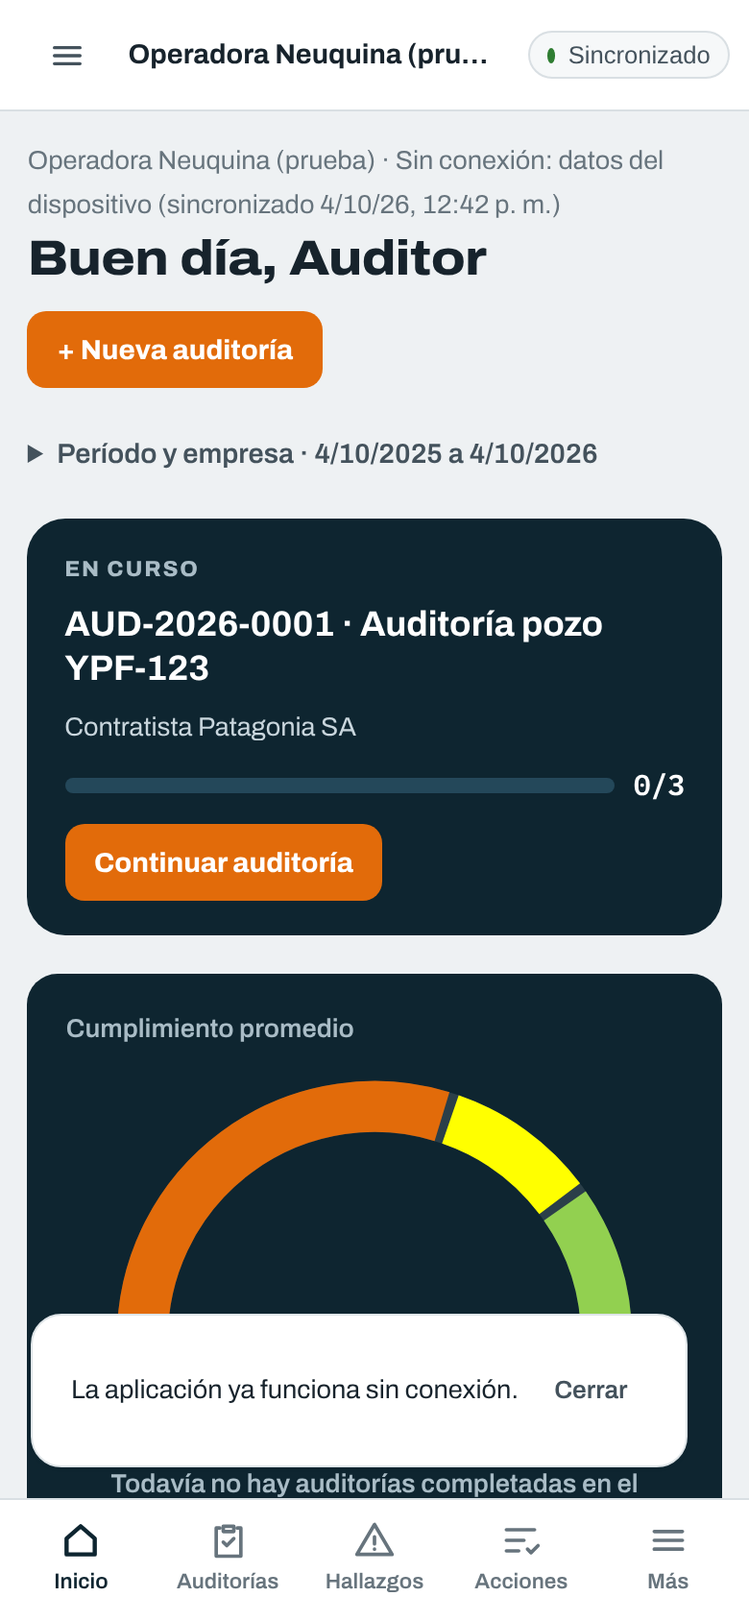
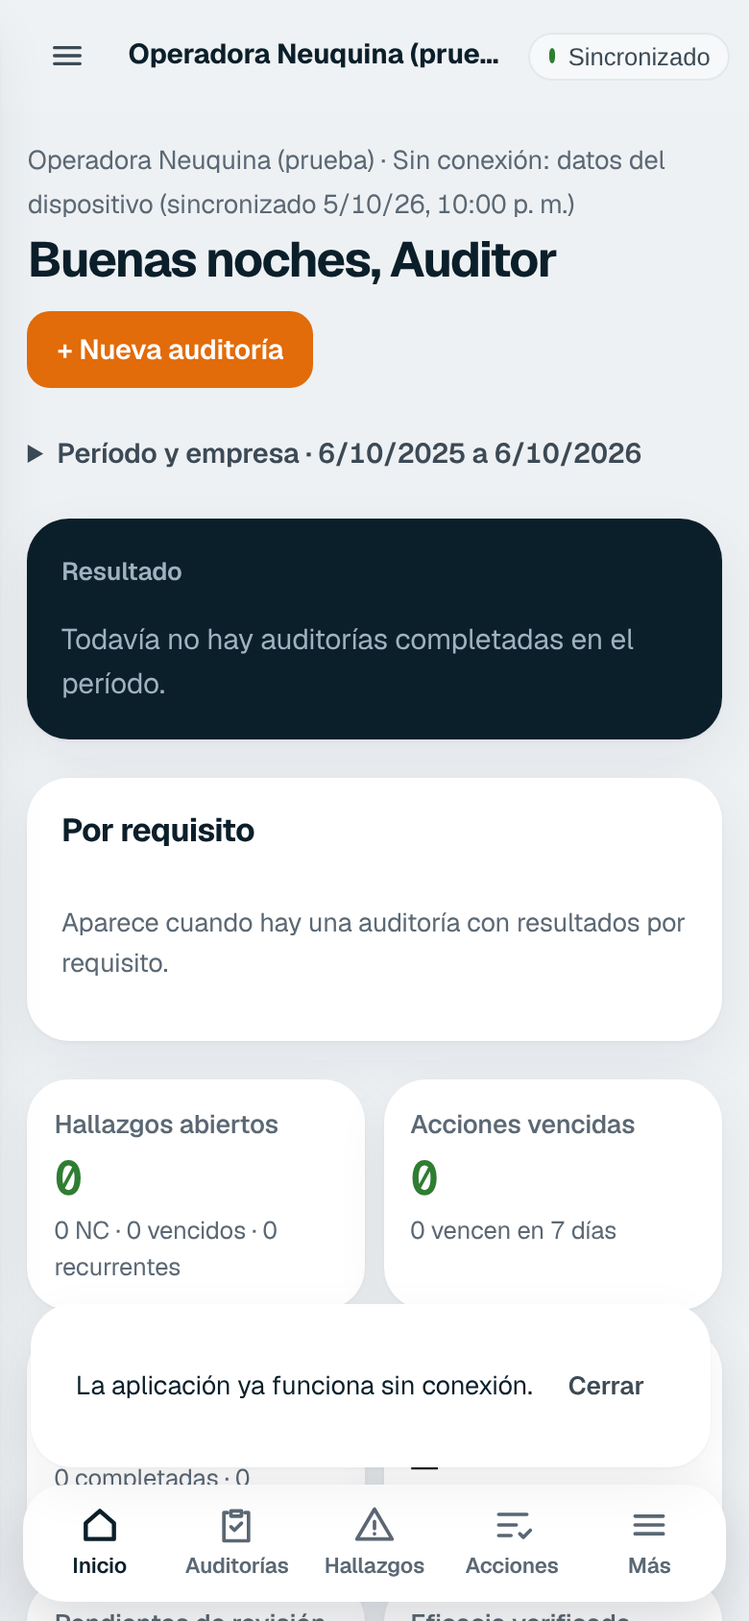
Diseño versión 2: tarjetas flotantes, menú blanco, Geist y panel por bloques
- Tipografía Geist / Geist Mono; tarjetas sin borde con sombra suave; menú lateral
  blanco flotante y barra inferior flotante en el celular.
- Panel: anillo con el último resultado (o el parcial en curso), barras por requisito
  con los colores de la planilla, indicadores, hallazgos abiertos con Asignar y
  Siguiente paso.
- Todas las suites en verde.

Claude-Session: https://claude.ai/code/session_01S9HHxuReGCk5wRk5QeqLob

diff --git a/src/modules/dashboard/DashboardPage.tsx b/src/modules/dashboard/DashboardPage.tsx
@@ -6,7 +6,6 @@ import { useOrgRows } from '../../db/hooks';
 import { useAuth } from '../auth/AuthProvider';
 import { useSyncState } from '../../sync/scheduler';
 import { Badge, Card, Empty, Input, Select, Stat, fmtDate, fmtDateTime, fmtNum } from '../../components/ui';
-import { Gauge } from '../../components/Gauge';
 import { useProfiles } from '../../db/hooks';
 import { loadSummary, type SummaryResult } from '../reports/summary';
 import { LABELS, type Action, type Audit, type Company, type Finding, type TemplateCategory, type TemplateVersion } from '../../types';
@@ -30,6 +29,19 @@ function Bars({ data, max, fmt = (v: number) => String(v), color }: { data: { la
   );
 }
 const BAND_ORDER = ['Muy Bueno', 'Bueno', 'Regular', 'Crítico'];
+
+/** Anillo de progreso con el valor en el centro (color de la banda). */
+function Ring({ value, max, color, text, sub }: { value: number; max: number; color: string; text: string; sub: string }) {
+  const r = 70, c = 2 * Math.PI * r, f = Math.max(0, Math.min(1, value / (max || 1)));
+  return (
+    <svg className="ring" viewBox="0 0 168 168" role="img" aria-label={`${text} ${sub}`}>
+      <circle cx="84" cy="84" r={r} fill="none" stroke="rgba(255,255,255,.12)" strokeWidth="16" />
+      <circle cx="84" cy="84" r={r} fill="none" stroke={color} strokeWidth="16" strokeLinecap="round" strokeDasharray={`${(f * c).toFixed(1)} ${c.toFixed(1)}`} transform="rotate(-90 84 84)" />
+      <text x="84" y="90" textAnchor="middle" className="ring-val">{text}</text>
+      <text x="84" y="114" textAnchor="middle" className="ring-sub">{sub}</text>
+    </svg>
+  );
+}
 
 /** Distribución de calificaciones como barra apilada con los colores de la planilla. */
 function BandStrip({ bands, compact }: { bands: Record<string, number>; compact?: boolean }) {
@@ -92,7 +104,7 @@ export function DashboardPage() {
     const answered = (await db.hse_audit_responses.where('audit_id').equals(a.id).toArray()).filter(r => !r.deleted_at && (r.answer || r.text_value || r.numeric_value !== null || r.rating !== null)).length;
     // resultado parcial con las reglas de la versión (el oficial lo calcula el servidor al completar)
     const version = await db.hse_template_versions.get(a.template_version_id);
-    let partial: { value: number | null; band: string | null; situ: boolean; cfg: unknown } | null = null;
+    let partial: { value: number | null; band: string | null; situ: boolean; cfg: unknown; sections: { title: string; score: number | null }[] } | null = null;
     if (version) {
       const secs = await db.hse_template_sections.where('version_id').equals(a.template_version_id).toArray();
       const its = await db.hse_template_items.where('version_id').equals(a.template_version_id).toArray();
@@ -100,7 +112,8 @@ export function DashboardPage() {
       const answers = Object.fromEntries(resp.filter(r => r.answer).map(r => [r.item_id, r.answer as string]));
       const situ = version.scoring_method === 'situacion_promedio_secciones';
       const res = evaluate(version, secs.filter(x => !x.deleted_at), its.filter(x => !x.deleted_at), answers);
-      partial = { value: situ ? res.final ?? null : res.compliance_pct ?? null, band: situ ? res.band ?? null : null, situ, cfg: version.scoring_config };
+      partial = { value: situ ? res.final ?? null : res.compliance_pct ?? null, band: situ ? res.band ?? null : null, situ, cfg: version.scoring_config,
+        sections: res.sections.map(x => ({ title: String((secs.find(z => z.id === x.section_id)?.title ?? '')).trim(), score: x.score === null || x.score === undefined ? null : Number(x.score) })) };
     }
     return { audit: a, total, answered: Math.min(answered, total), partial };
   }, [orgId, userId]);
@@ -119,18 +132,6 @@ export function DashboardPage() {
   const firstName = (profileName ?? '').split(' ')[0];
   const hour = new Date().getHours();
   const hello = hour < 13 ? 'Buen día' : hour < 20 ? 'Buenas tardes' : 'Buenas noches';
-  // indicador: promedio de los resultados oficiales con bandas (escala de la metodología) o cumplimiento %
-  const situ = latest.filter(a => vById.get(a.template_version_id)?.scoring_method === 'situacion_promedio_secciones' && a.score !== null);
-  // sin auditorías completadas: el indicador muestra el resultado parcial de la auditoría en curso
-  const usePartial = !situ.length && S?.results.avg_compliance == null && !!inProgress?.partial && inProgress.partial.value !== null;
-  const cfg0 = situ.length ? vById.get(situ[0].template_version_id)?.scoring_config : usePartial && inProgress!.partial!.situ ? inProgress!.partial!.cfg : null;
-  const cfg = cfg0 && isSituacionConfig(cfg0) ? cfg0 : null;
-  const gaugeMax = cfg ? cfg.scale_max : 100;
-  const gaugeVal = usePartial ? inProgress!.partial!.value : cfg ? (situ.length ? situ.reduce((t, a) => t + Number(a.score), 0) / situ.length : null) : (S?.results.avg_compliance ?? null);
-  const gaugeBand = cfg ? bandFor(gaugeVal, cfg.bands) : null;
-  // sin bandas (lista ponderada): los mismos umbrales de color que el indicador de cumplimiento (60 % / 80 %)
-  const segments = cfg ? [...cfg.bands].sort((a, b) => (a.min ?? 0) - (b.min ?? 0)).map(b => ({ from: b.min ?? 0, to: b.max ?? cfg.scale_max, color: bandStyle(b.label)?.bg ?? '#7d8b92' }))
-    : [{ from: 0, to: 60, color: '#E26B0A' }, { from: 60, to: 80, color: '#FFFF00' }, { from: 80, to: 100, color: '#92D050' }];
   const today = new Date().toISOString().slice(0, 10);
   const upcoming = audits.filter(a => !a.deleted_at && a.status === 'planificada' && (!company || a.company_id === company))
     .sort((a, b) => (a.scheduled_date ?? '9999').localeCompare(b.scheduled_date ?? '9999')).slice(0, 5);
@@ -138,6 +139,23 @@ export function DashboardPage() {
     .sort((a, b) => a.due_date.localeCompare(b.due_date)).slice(0, 5);
   const findingById = new Map(findings.map(f => [f.id, f]));
   const heat = heatmap(audits, vById, company);
+  // tarjeta principal: último resultado oficial o, si no hay, la auditoría en curso (parcial)
+  const lastDone = latest[0];
+  const subj = lastDone ? (() => {
+    const v = vById.get(lastDone.template_version_id); const sc = v?.scoring_config; const sit = v?.scoring_method === 'situacion_promedio_secciones';
+    return { audit: lastDone, partial: false, situ: sit, value: sit ? Number(lastDone.score) : Number(lastDone.compliance_pct), band: lastDone.result_band,
+      max: sit && sc && isSituacionConfig(sc) ? sc.scale_max : 100, bands: sc && isSituacionConfig(sc) ? sc.bands : undefined,
+      sections: ((lastDone.section_results as { title: string; score: number | null }[] | null) ?? []).map(x => ({ title: String(x.title).trim(), score: x.score === null ? null : Number(x.score) })) };
+  })() : inProgress?.partial && inProgress.partial.value !== null ? (() => {
+    const sc = inProgress.partial.cfg;
+    return { audit: inProgress.audit, partial: true, situ: inProgress.partial.situ, value: inProgress.partial.value, band: inProgress.partial.band,
+      max: inProgress.partial.situ && isSituacionConfig(sc) ? sc.scale_max : 100, bands: isSituacionConfig(sc) ? sc.bands : undefined, sections: inProgress.partial.sections };
+  })() : null;
+  const subjSections = subj ? subj.sections.filter(x => x.score !== null) : [];
+  const weakest = subjSections.length ? [...subjSections].sort((a, b) => Number(a.score) - Number(b.score))[0] : null;
+  const openFindings = findings.filter(f => !f.deleted_at && (f.status === 'abierto' || f.status === 'en_tratamiento'))
+    .sort((a, b) => (a.finding_type.startsWith('n') ? 0 : 1) - (b.finding_type.startsWith('n') ? 0 : 1) || (b.detected_at ?? '').localeCompare(a.detected_at ?? ''));
+  const ftLabel = (t: string) => t === 'observacion' ? 'OBS' : t === 'oportunidad_mejora' ? 'OPM' : 'NC';
 
   return (
     <div className="stack-lg">
@@ -157,18 +175,6 @@ export function DashboardPage() {
         </div>
       </details>
       {error ? <div className="alert alert-bad">{error}</div> : null}
-      {inProgress ? (
-        <Link to={`/auditorias/${inProgress.audit.id}`} className="continue-card">
-          <span className="continue-tag">EN CURSO</span>
-          <strong>{inProgress.audit.code ? `${inProgress.audit.code} · ` : ''}{inProgress.audit.title}</strong>
-          <span className="small">{inProgress.audit.company_id ? cName.get(inProgress.audit.company_id) : ''}</span>
-          <span className="continue-progress"><span><span style={{ width: `${inProgress.total ? (100 * inProgress.answered) / inProgress.total : 0}%` }} /></span><span className="num-font">{inProgress.answered}/{inProgress.total}</span></span>
-          {inProgress.partial && inProgress.partial.value !== null ? (
-            <span className="continue-partial">Resultado parcial <strong className="num-font">{inProgress.partial.situ ? fmtNum(inProgress.partial.value) : `${fmtNum(inProgress.partial.value, 1)} %`}</strong>{inProgress.partial.band ? <BandChip label={inProgress.partial.band} /> : null}
-              {inProgress.answered >= inProgress.total ? <span className="small">· todo respondido: falta tocar "Completar"</span> : null}</span>) : null}
-          <span className="btn btn-accent">{inProgress.answered >= inProgress.total ? 'Revisar y completar' : 'Continuar auditoría'}</span>
-        </Link>
-      ) : null}
       {anyAudit === false ? <Empty>
           <div className="stack" style={{ alignItems: 'center' }}>
             <strong>Todavía no hay auditorías en esta organización.</strong>
@@ -176,27 +182,86 @@ export function DashboardPage() {
             {can(role, 'admin') ? <DemoButton /> : null}
           </div>
         </Empty> : !S ? null : <>
-        <section className="dash-top">
-          <div className="gauge-card">
-            <span className="small">{usePartial ? `Resultado parcial · ${inProgress!.audit.code ?? 'en curso'}` : cfg ? 'Resultado promedio' : 'Cumplimiento promedio'}</span>
-            <Gauge value={gaugeVal} max={gaugeMax} segments={segments} label={`Indicador: ${gaugeVal === null ? 'sin datos' : fmtNum(gaugeVal)}${gaugeBand ? `, ${gaugeBand}` : ''}`} />
-            <div className="gauge-value"><span className="num-font">{gaugeVal === null ? '—' : cfg ? fmtNum(gaugeVal) : `${fmtNum(gaugeVal, 1)} %`}</span>{gaugeBand ? <BandChip label={gaugeBand} /> : null}</div>
-            <span className="small gauge-note">{usePartial ? 'Auditoría en curso: el resultado oficial se calcula al tocar "Completar"' : gaugeVal === null ? 'Todavía no hay auditorías completadas en el período' : cfg ? `Últimas ${situ.length} auditorías con calificación · escala 0 a ${fmtNum(cfg.scale_max, 0)}` : 'Resultados oficiales del período'}</span>
-            <BandStrip bands={S.results.bands} compact />
+        <section className="bento">
+          <div className="tile tile-dark hero-tile">
+            <div className="row between gap"><span className="tile-kicker">{subj ? (subj.partial ? 'En curso · resultado parcial' : 'Último resultado') : 'Resultado'}</span>
+              {subj?.audit.code ? <span className="pill pill-glass">{subj.audit.code}</span> : null}</div>
+            {subj ? (<>
+              <div className="hero-body">
+                <Ring value={subj.value} max={subj.max} color={bandStyle(subj.band)?.bg ?? '#92D050'} text={subj.situ ? fmtNum(subj.value) : `${fmtNum(subj.value, 0)}%`} sub={subj.situ ? `de ${fmtNum(subj.max, 0)}` : 'cumplimiento'} />
+                <div className="hero-info">
+                  {subj.band ? <BandChip label={subj.band} /> : null}
+                  <strong>{subj.audit.company_id ? cName.get(subj.audit.company_id) : subj.audit.title}</strong>
+                  <span>{subj.audit.title}<br />{fmtDate(subj.audit.scheduled_date ?? subj.audit.completed_at)}</span>
+                </div>
+              </div>
+              {subj.bands ? <div className="band-scale" aria-hidden>{[...subj.bands].sort((x, y) => (x.min ?? 0) - (y.min ?? 0)).map(b => <span key={b.label} style={{ flex: ((b.max ?? subj.max) - (b.min ?? 0)) || 1, background: bandStyle(b.label)?.bg }} />)}</div> : null}
+              {subj.partial ? <Link className="btn btn-accent" to={`/auditorias/${subj.audit.id}`}>{inProgress && inProgress.answered >= inProgress.total ? 'Revisar y completar' : 'Continuar auditoría'}</Link>
+                : <Link className="btn btn-glass" to={`/auditorias/${subj.audit.id}`}>Ver auditoría</Link>}
+            </>) : <p className="tile-muted">Todavía no hay auditorías completadas en el período.</p>}
           </div>
-          <div className="kpis">
-            <Stat label="Auditorías" value={S.audits.total} sub={`${(S.audits.by_status.completada ?? 0) + (S.audits.by_status.cerrada ?? 0)} completadas · ${S.audits.overdue_planned} atrasadas`} tone={S.audits.overdue_planned ? 'warn' : undefined} />
-            <Stat label="Cumplimiento promedio" value={S.results.avg_compliance === null ? '—' : `${fmtNum(S.results.avg_compliance, 1)} %`} sub="resultados oficiales" tone={S.results.avg_compliance === null ? undefined : S.results.avg_compliance >= 80 ? 'ok' : S.results.avg_compliance >= 60 ? 'warn' : 'bad'} />
-            <Stat label="Hallazgos abiertos" value={S.findings.open} sub={`${S.findings.overdue} vencidos · ${S.findings.recurrent} recurrentes`} tone={S.findings.overdue ? 'bad' : S.findings.open ? 'warn' : 'ok'} />
-            <Stat label="Acciones vencidas" value={S.actions.overdue} sub={`${S.actions.due_7_days} vencen en 7 días · ${S.actions.completed ? fmtNum((100 * S.actions.completed_on_time) / S.actions.completed, 0) : '—'} % en plazo`} tone={S.actions.overdue ? 'bad' : 'ok'} />
-            <Stat label="Pendientes de revisión" value={S.audits.pending_review} sub={`${S.audits.ready_to_close} listas para cerrar`} />
-            <Stat label="Eficacia verificada" value={`${S.findings.effective} / ${S.findings.effective + S.findings.not_effective}`} sub={`hallazgos eficaces / verificados · ${S.findings.pending_verification} por verificar`} tone={S.findings.not_effective ? 'warn' : undefined} />
+          <div className="tile req-tile">
+            <div className="row between wrap gap"><h2 className="tile-title">Por requisito</h2><span className="small muted">{subj ? `${subj.audit.code ?? ''} · colores de la planilla` : ''}</span></div>
+            {subjSections.length ? subjSections.map(x => {
+              const b = subj!.situ ? bandFor(x.score, subj!.bands) : null; const st = bandStyle(b);
+              return (
+                <div key={x.title} className="req-bar" title={b ?? undefined}>
+                  <span className="req-name">{x.title}</span>
+                  <span className="req-track"><span style={{ width: `${Math.max(2, (100 * Number(x.score)) / (subj!.max || 100))}%`, background: st?.bg ?? 'var(--primary)' }} /></span>
+                  <span className="num-font req-val">{subj!.situ ? fmtNum(x.score) : `${fmtNum(x.score, 0)}%`}</span>
+                </div>);
+            }) : <p className="muted small">Aparece cuando hay una auditoría con resultados por requisito.</p>}
+            {weakest && subjSections.length > 1 ? <p className="small muted" style={{ margin: '.4rem 0 0' }}>Punto más débil: <strong>{weakest.title}</strong>.</p> : null}
           </div>
+        </section>
+
+        <section className="kpis kpis-v2">
+          <Stat label="Hallazgos abiertos" value={S.findings.open} sub={`${openFindings.filter(f => !['observacion', 'oportunidad_mejora'].includes(f.finding_type)).length} NC · ${S.findings.overdue} vencidos · ${S.findings.recurrent} recurrentes`} tone={S.findings.overdue ? 'bad' : S.findings.open ? 'warn' : 'ok'} />
+          <Stat label="Acciones vencidas" value={S.actions.overdue} sub={`${S.actions.due_7_days} vencen en 7 días`} tone={S.actions.overdue ? 'bad' : 'ok'} />
+          <Stat label="Auditorías" value={S.audits.total} sub={`${(S.audits.by_status.completada ?? 0) + (S.audits.by_status.cerrada ?? 0)} completadas · ${S.audits.overdue_planned} atrasadas`} tone={S.audits.overdue_planned ? 'warn' : undefined} />
+          <Stat label="Cumplimiento promedio" value={S.results.avg_compliance === null ? '—' : `${fmtNum(S.results.avg_compliance, 1)} %`} sub="resultados oficiales" tone={S.results.avg_compliance === null ? undefined : S.results.avg_compliance >= 80 ? 'ok' : S.results.avg_compliance >= 60 ? 'warn' : 'bad'} />
+          <Stat label="Pendientes de revisión" value={S.audits.pending_review} sub={`${S.audits.ready_to_close} listas para cerrar`} />
+          <Stat label="Eficacia verificada" value={`${S.findings.effective} / ${S.findings.effective + S.findings.not_effective}`} sub={`${S.findings.pending_verification} por verificar`} tone={S.findings.not_effective ? 'warn' : undefined} />
+        </section>
+
+        <section className="bento">
+          <div className="tile feed-tile">
+            <div className="row between wrap gap"><h2 className="tile-title">Hallazgos abiertos</h2><Link className="small" to="/hallazgos" style={{ fontWeight: 600 }}>Ver los {openFindings.length}</Link></div>
+            {openFindings.length === 0 ? <p className="muted small">No hay hallazgos abiertos.</p> : (
+              <ul className="plain feed">{openFindings.slice(0, 5).map(f => (
+                <li key={f.id}><Link to={`/hallazgos/${f.id}`} className="feed-item">
+                  <span className={`pill pill-${ftLabel(f.finding_type).toLowerCase()}`}>{ftLabel(f.finding_type)}</span>
+                  <span className="grow"><strong>{f.title}</strong><span className="small muted">{f.code ?? ''}{f.company_id ? ` · ${cName.get(f.company_id) ?? ''}` : ''} · {f.responsible_user_id ? people.get(f.responsible_user_id) : 'sin responsable'}</span></span>
+                  <span className="feed-cta">{f.responsible_user_id ? 'Ver' : 'Asignar'}</span>
+                </Link></li>))}
+              </ul>)}
+          </div>
+          {inProgress ? (
+            <div className="tile steps-tile">
+              <h2 className="tile-title">Siguiente paso</h2>
+              <ol className="steps">
+                <li className={inProgress.answered >= inProgress.total ? 'now' : ''}><strong>{inProgress.answered >= inProgress.total ? `Completar ${inProgress.audit.code ?? 'la auditoría'}` : `Responder ${inProgress.total - inProgress.answered} requisitos`}</strong><span>{inProgress.answered}/{inProgress.total} respondidas{inProgress.answered >= inProgress.total ? ': falta confirmar el resultado oficial' : ''}.</span></li>
+                <li><strong>Reunión de cierre y firmas</strong><span>Acta con el referente de la empresa auditada.</span></li>
+                <li><strong>Enviar informe y pedir plan de acción</strong><span>{findings.filter(f => !f.deleted_at && f.audit_id === inProgress.audit.id).length} hallazgos para asignar.</span></li>
+              </ol>
+              <Link className="btn btn-accent" to={`/auditorias/${inProgress.audit.id}`}>{inProgress.answered >= inProgress.total ? 'Revisar y completar' : 'Continuar auditoría'}</Link>
+            </div>
+          ) : (
+            <Card title="Próximas auditorías" actions={<Link className="btn btn-ghost btn-sm" to="/auditorias">Ver todas</Link>}>
+              {upcoming.length === 0 ? <p className="muted small">No hay auditorías planificadas.</p> : (
+                <ul className="plain date-list">{upcoming.map(a => { const d = a.scheduled_date ? new Date(a.scheduled_date + 'T12:00:00') : null; const late = !!a.scheduled_date && a.scheduled_date < today; return (
+                  <li key={a.id}><Link to={`/auditorias/${a.id}`} className="date-item">
+                    <span className={`date-box ${late ? 'late' : ''}`}><strong className="num-font">{d ? String(d.getDate()).padStart(2, '0') : '—'}</strong><span>{d ? d.toLocaleDateString('es-AR', { month: 'short' }).replace('.', '').toUpperCase() : ''}</span></span>
+                    <span><strong>{a.title}</strong><span className="small muted">{a.company_id ? cName.get(a.company_id) : ''}{late ? ' · atrasada' : ''}</span></span>
+                  </Link></li>); })}
+                </ul>)}
+            </Card>
+          )}
         </section>
 
         <section className="dash-row">
           <Card title="Mapa de requisitos por empresa" className="dash-wide">
-            {!heat ? <p className="muted small">Aparece cuando hay auditorías completadas con calificación por requisito.</p> : (<>
+            {!heat ? <p className="muted small">Aparece cuando hay auditorías completadas de más de una empresa, para compararlas por requisito.</p> : (<>
               <div className="heat-wrap"><table className="heat">
                 <thead><tr><th>Empresa</th>{heat.cols.map(c => <th key={c} title={c}>{c}</th>)}<th>Final</th></tr></thead>
                 <tbody>{heat.rows.map(r => (

diff --git a/src/index.css b/src/index.css
@@ -458,3 +458,110 @@ table.perm-t td:first-child { text-align: left; font-weight: 600; }
 .cred-pass { font-size: 1.35rem; letter-spacing: .02em; user-select: all; }
 .sheet-opt { border: 1.5px solid var(--ok); background: var(--ok-soft); border-radius: 12px; padding: .7rem .8rem; }
 .continue-partial { display: flex; align-items: center; gap: .5rem; flex-wrap: wrap; color: #c9d6dd; } .continue-partial strong { color: #fff; font-size: 1.25rem; }
+
+/* =====================================================================
+   Versión 2 (2026-10-05): más aire, tarjetas flotantes sin borde,
+   menú blanco flotante, tipografía Geist y números en Geist Mono.
+   ===================================================================== */
+:root {
+  --bg: #eef1f4; --ink: #0b1f2a; --ink-2: #3c4a55; --muted: #5b6874; --line: #e3e8ec; --line-2: #cfd7de;
+  --primary: #0b1f2a; --primary-ink: #ffffff; --brand: #0b5cad; --brand-soft: #e8f1fb; --info: #0b5cad; --info-soft: #e8f1fb;
+  --font: "Geist Variable", "Geist", "Segoe UI", system-ui, -apple-system, sans-serif;
+  --num: "Geist Mono", ui-monospace, Menlo, Consolas, monospace;
+  --radius: 14px; --radius-lg: 22px;
+  --elev: 0 1px 2px rgba(16,24,40,.04), 0 10px 30px rgba(16,24,40,.06);
+  --side-bg: #ffffff; --side-ink: #5b6874; --side-hover: #eef1f4; --side-on: #0b1f2a; --side-on-ink: #ffffff;
+}
+@media (prefers-color-scheme: dark) {
+  :root {
+    --bg: #0d151b; --ink: #e8eef2; --ink-2: #b9c6cf; --muted: #8f9ca6; --line: #24323c; --line-2: #33444f;
+    --primary: #e8eef2; --primary-ink: #0b1f2a; --brand: #7ab4ec; --brand-soft: #16304a; --info: #7ab4ec; --info-soft: #16304a;
+    --elev: 0 1px 2px rgba(0,0,0,.3), 0 10px 30px rgba(0,0,0,.25);
+    --side-bg: #141f27; --side-ink: #9fb0bb; --side-hover: #1d2b35; --side-on: #e8eef2; --side-on-ink: #0b1f2a;
+  }
+}
+body { letter-spacing: -.005em; }
+h1, h2, h3 { font-stretch: normal; letter-spacing: -.02em; }
+h1 { font-weight: 700; }
+.num-font, .stat-value, .verdict-num { font-family: var(--num); font-weight: 600; letter-spacing: -.03em; }
+.card, .stat, .sheet, .section-block, .mini-stat, .empty { border-color: transparent; box-shadow: var(--elev); border-radius: var(--radius-lg); }
+.table-wrap { border-color: var(--line); border-radius: 16px; }
+.card { padding: 1.35rem 1.4rem; }
+.btn { border-radius: 12px; font-weight: 600; }
+.btn-secondary { border-color: var(--line-2); }
+.input { border-radius: 12px; }
+.modal { border-radius: 22px; }
+.badge { font-weight: 600; }
+
+/* menú: tarjeta blanca flotante */
+@media (min-width: 901px) { .shell { grid-template-columns: 268px 1fr; } }
+.side { background: var(--side-bg); color: var(--side-ink); margin: 14px 0 14px 14px; height: calc(100vh - 28px); top: 14px; border-radius: 24px; box-shadow: var(--elev); }
+.brand { color: var(--ink); }
+.brand-firm { color: var(--ink); }
+.brand-app { color: var(--muted); }
+.nav a { color: var(--side-ink); }
+.nav a:hover { background: var(--side-hover); color: var(--ink); }
+.nav a.active { background: var(--side-on); color: var(--side-on-ink); }
+.nav-sep { color: var(--muted); }
+.side-user { background: var(--side-hover); color: var(--ink); }
+.side-user > span:last-child > span { color: var(--muted); }
+.side-user .avatar { background: var(--primary); color: var(--primary-ink); }
+.topbar { background: color-mix(in srgb, var(--bg) 82%, transparent); backdrop-filter: blur(10px); border-bottom: 0; }
+@media (max-width: 900px) {
+  .side { margin: 0; height: 100vh; top: 0; border-radius: 0 24px 24px 0; }
+  .tabbar { left: 12px; right: 12px; bottom: calc(10px + env(safe-area-inset-bottom)); border: 0; border-radius: 22px; box-shadow: 0 12px 30px rgba(16,24,40,.16); padding: 4px; }
+  .content { padding-bottom: calc(100px + env(safe-area-inset-bottom)); }
+}
+
+/* dashboard v2 */
+.dash-hello h1 { font-stretch: normal; font-weight: 700; letter-spacing: -.035em; }
+.bento { display: flex; flex-wrap: wrap; gap: 1.25rem; align-items: stretch; }
+.tile { background: var(--surface); border-radius: var(--radius-lg); box-shadow: var(--elev); padding: 1.4rem; display: flex; flex-direction: column; gap: .9rem; min-width: 0; }
+.tile-dark { background: #0b1f2a; color: #fff; }
+.tile-kicker { font-size: .82rem; font-weight: 600; color: #9fb2bf; }
+.tile-title { font-size: 1.05rem; font-weight: 700; margin: 0; }
+.tile-muted { color: #9fb2bf; margin: 0; }
+.pill { display: inline-flex; align-items: center; height: 24px; padding: 0 10px; border-radius: 999px; font-size: .74rem; font-weight: 700; white-space: nowrap; flex: none; }
+.pill-glass { background: rgba(255,255,255,.1); color: #d8e2e8; }
+.pill-nc { background: #fdeceb; color: #b42318; } .pill-obs { background: #fff6d6; color: #8a5a00; } .pill-opm { background: #e8f1fb; color: #0b5cad; }
+.hero-tile { flex: 1 1 340px; }
+.hero-body { display: flex; align-items: center; gap: 1.3rem; flex-wrap: wrap; }
+.ring { width: 160px; height: 160px; flex: none; }
+.ring-val { font-family: var(--num); font-size: 36px; font-weight: 600; fill: #fff; letter-spacing: -.03em; }
+.ring-sub { font-size: 13px; fill: #9fb2bf; }
+.hero-info { display: flex; flex-direction: column; gap: .4rem; min-width: 0; }
+.hero-info strong { font-size: 1.15rem; line-height: 1.25; }
+.hero-info > span:last-child { font-size: .84rem; color: #9fb2bf; }
+.band-scale { display: flex; gap: 3px; height: 8px; }
+.band-scale span { border-radius: 99px; }
+.btn-glass { background: rgba(255,255,255,.1); color: #fff; }
+.btn-glass:hover { background: rgba(255,255,255,.16); }
+.hero-tile .btn { align-self: flex-start; }
+.req-tile { flex: 2 1 520px; }
+.req-bar { display: grid; grid-template-columns: minmax(90px, 210px) minmax(0, 1fr) 54px; gap: .9rem; align-items: center; font-size: .9rem; }
+.req-name { overflow: hidden; text-overflow: ellipsis; white-space: nowrap; }
+.req-track { height: 12px; border-radius: 99px; background: var(--bg); overflow: hidden; }
+.req-track span { display: block; height: 100%; border-radius: 99px; box-shadow: inset 0 0 0 1px rgba(0,0,0,.06); }
+.req-val { text-align: right; font-weight: 600; }
+.kpis-v2 { grid-template-columns: repeat(auto-fit, minmax(170px, 1fr)); }
+.feed-tile { flex: 2 1 520px; }
+.feed > li + li { border-top: 1px solid var(--line); }
+.feed-item { display: flex; align-items: flex-start; gap: .8rem; padding: .8rem 0; color: inherit; text-decoration: none; }
+.feed-item .grow { display: flex; flex-direction: column; min-width: 0; }
+.feed-item strong { font-size: .92rem; line-height: 1.35; display: -webkit-box; -webkit-line-clamp: 2; -webkit-box-orient: vertical; overflow: hidden; }
+.feed-cta { font-size: .84rem; font-weight: 700; color: var(--brand); flex: none; }
+.feed-item:hover strong { color: var(--brand); }
+.steps-tile { flex: 1 1 300px; }
+.steps { list-style: none; margin: 0; padding: 0; display: flex; flex-direction: column; gap: .9rem; counter-reset: s; }
+.steps li { display: grid; grid-template-columns: 28px 1fr; column-gap: .75rem; counter-increment: s; font-size: .9rem; }
+.steps li::before { content: counter(s); grid-row: span 2; width: 28px; height: 28px; border-radius: 99px; background: var(--bg); display: grid; place-items: center; font-weight: 800; font-size: .8rem; }
+.steps li.now::before { background: #92d050; color: #1f3b0b; }
+.steps li span { color: var(--muted); }
+.steps-tile .btn { margin-top: auto; }
+@media (max-width: 600px) {
+  .ring { width: 132px; height: 132px; }
+  .tile { padding: 1.1rem; }
+  .req-bar { grid-template-columns: minmax(80px, 38%) minmax(0, 1fr) 46px; gap: .6rem; font-size: .84rem; }
+}
+.hero-info .band-chip { align-self: flex-start; }
+.kpis-v2 { grid-template-columns: repeat(auto-fit, minmax(150px, 1fr)); }

diff --git a/src/main.tsx b/src/main.tsx
@@ -1,9 +1,9 @@
 import { StrictMode } from 'react';
 import { createRoot } from 'react-dom/client';
 import App from './App';
-import '@fontsource-variable/archivo/wdth.css';
-import '@fontsource/ibm-plex-mono/latin-500.css';
-import '@fontsource/ibm-plex-mono/latin-600.css';
+import '@fontsource-variable/geist/index.css';
+import '@fontsource/geist-mono/latin-500.css';
+import '@fontsource/geist-mono/latin-600.css';
 import './index.css';
 
 createRoot(document.getElementById('root')!).render(<StrictMode><App /></StrictMode>);

diff --git a/tests/e2e/admin_redesign_e2e.py b/tests/e2e/admin_redesign_e2e.py
@@ -120,15 +120,15 @@ with sync_playwright() as pw:
     A.screenshot(path=f'{OUT}/16-permisos.png')
 
     # rediseño: escritorio
-    A.goto(f'{BASE}/'); A.wait_for_selector('.gauge-card', timeout=60000); A.wait_for_timeout(600)
-    check('5.1 Dashboard nuevo: indicador, tarjeta "Continuar auditoría" y menú con íconos', A.locator('.continue-card').count() == 1 and A.locator('.nav a svg').count() >= 8, '')
+    A.goto(f'{BASE}/'); A.wait_for_selector('.hero-tile', timeout=60000); A.wait_for_timeout(600)
+    check('5.1 Dashboard nuevo: tarjeta de resultado, "Siguiente paso" y menú con íconos', A.locator('.steps-tile').count() == 1 and A.locator('.nav a svg').count() >= 8, '')
     A.screenshot(path=f'{OUT}/17-dashboard-escritorio.png')
     A.context.close()
 
     # rediseño: celular (auditor B, ya reactivado no importa: el simulador no corta el acceso)
     for m in fake.tables['hse_memberships'].values(): m['active'] = True
     M = ctx_for(browser, 'A', {'width': 390, 'height': 844}, mobile=True).new_page()
-    M.goto(f'{BASE}/'); M.wait_for_selector('.gauge-card', timeout=60000); M.wait_for_timeout(600)
+    M.goto(f'{BASE}/'); M.wait_for_selector('.hero-tile', timeout=60000); M.wait_for_timeout(600)
     check('6.1 Celular: barra inferior de accesos', M.locator('.tabbar .tabbar-item').count() == 5 and M.locator('.tabbar').is_visible(), '')
     check('6.2 Celular: dashboard sin desplazamiento horizontal', no_hscroll(M), '')
     M.screenshot(path=f'{OUT}/18-inicio-celular.png')

diff --git a/tests/e2e/visual_hp_e2e.py b/tests/e2e/visual_hp_e2e.py
@@ -213,7 +213,7 @@ with sync_playwright() as pw:
     P.goto(f'{BASE}/auditorias'); P.wait_for_selector('text=Nueva auditoría', timeout=30000)
     P.get_by_role('button', name='Nueva auditoría').click()
     P.locator('.modal select').first.select_option(index=1)
-    P.wait_for_selector('.sheet-opt', timeout=10000)
+    P.wait_for_selector('.sheet-opt', timeout=30000)
     P.get_by_label('Título').fill('CSMS desde Nueva auditoría')
     P.screenshot(path=f'{OUT}/9-nueva-con-planilla.png')
     P.locator('.modal').get_by_role('button', name='Crear', exact=True).click()
